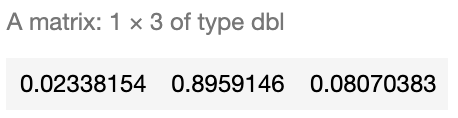
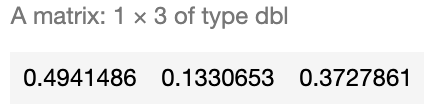
.

diff --git a/index.md b/index.md
@@ -175,13 +175,13 @@ b
 
 <b>2.3.1 Real Classification Example</b>
 
-Let's calculate the Class probability of a random number from the Dataset, such as the point number 356.
+Let's calculate the Class probability of a random number from the Dataset, such as the point number 510.
 
 ```R
-SampleData[356,]
+SampleData[510,]
 ```
 
-<img src="images/output3.png" width="219" height="117" />
+<img src="images/output3.png" width="233" height="114" />
 
 As observed, we already know the correct class is 2 (Red).
 
@@ -195,36 +195,36 @@ Lets see if our classifier works as expected. For this we need to remember the f
 
 
 ```R
-sample_score <- c(SampleData[356,]$x,SampleData[356,]$y) %*% W + b
+sample_score <- c(SampleData[510,]$x,SampleData[510,]$y) %*% W + b
 exponencial_score <- exp(sample_score)
 probabilities <- exponencial_score / rowSums(exponencial_score)
 probabilities
 ```
 
-<img src="images/output4.png" width="215" height="56" />
+<img src="images/output4.png" width="231" height="59" />
 
 As seen above, we calculate a 96% chance of this data point being red, which is <b>correct</b>.
 
 <b>2.3.3 Another Example</b>
 
-Let's try with another random number, such as data point number 471
+Let's try with another random number, such as data point number 667.
 
 ```R
-sample_score <- c(SampleData[471,]$x,SampleData[471,]$y) %*% W + b
+sample_score <- c(SampleData[667,]$x,SampleData[667,]$y) %*% W + b
 exponencial_score <- exp(sample_score)
 probabilities <- exponencial_score / rowSums(exponencial_score)
 probabilities
 ```
 
-<img src="images/output5.png" width="229" height="59" />
+<img src="images/output5.png" width="215" height="56" />
 
-As observed our model predicts it to be Blue with 66% probability. But as seen below, it's true color is green (Class 3) which the model assigned only 23% chance.
+As observed our model predicts it to be Blue with highest probability of 49%. But as seen below, it's true color is green (Class 3) which the model assigned only 37% chance.
 
 ```R
 SampleData[471,]
 ```
 
-<img src="images/output6.png" width="236" height="112" />
+<img src="images/output6.png" width="222" height="113" />
 
 ### 2.4 Accuracy
 
